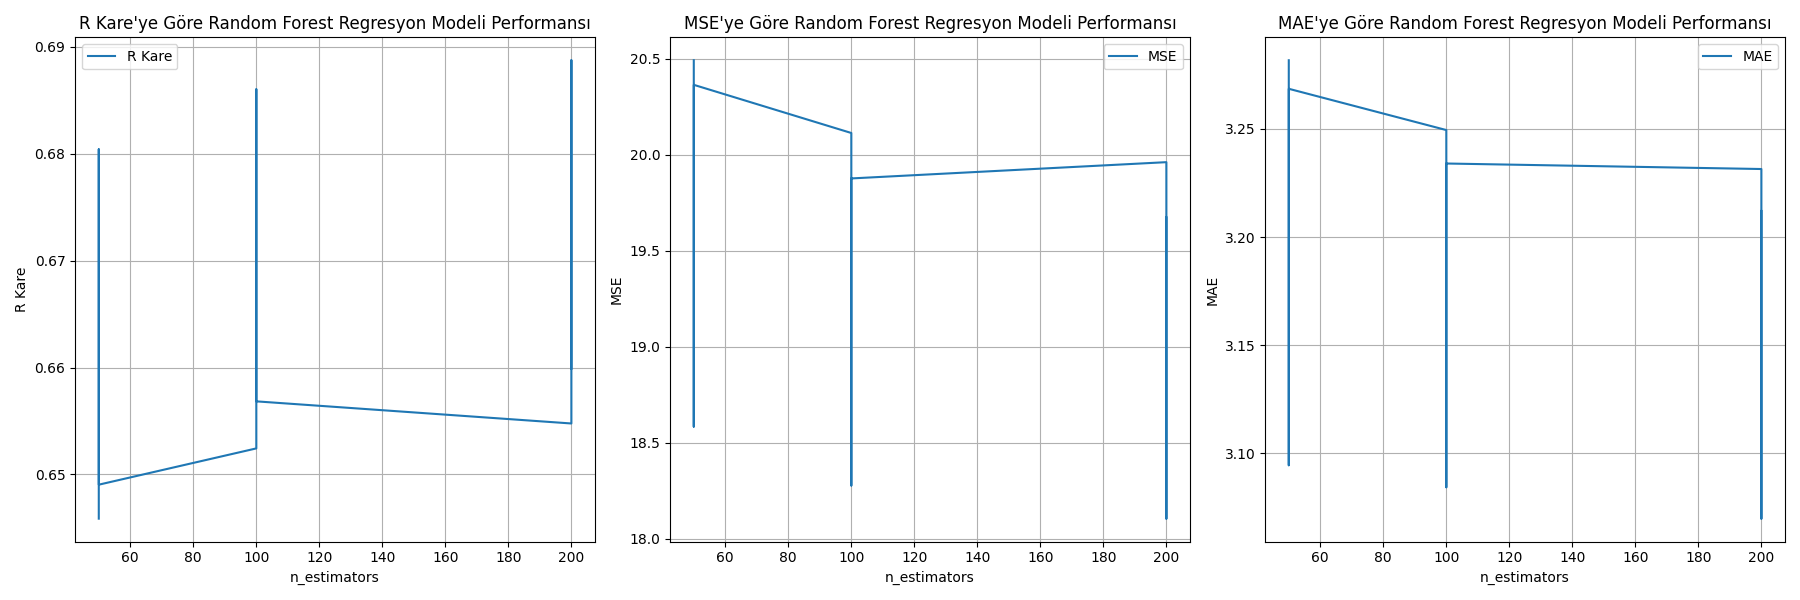
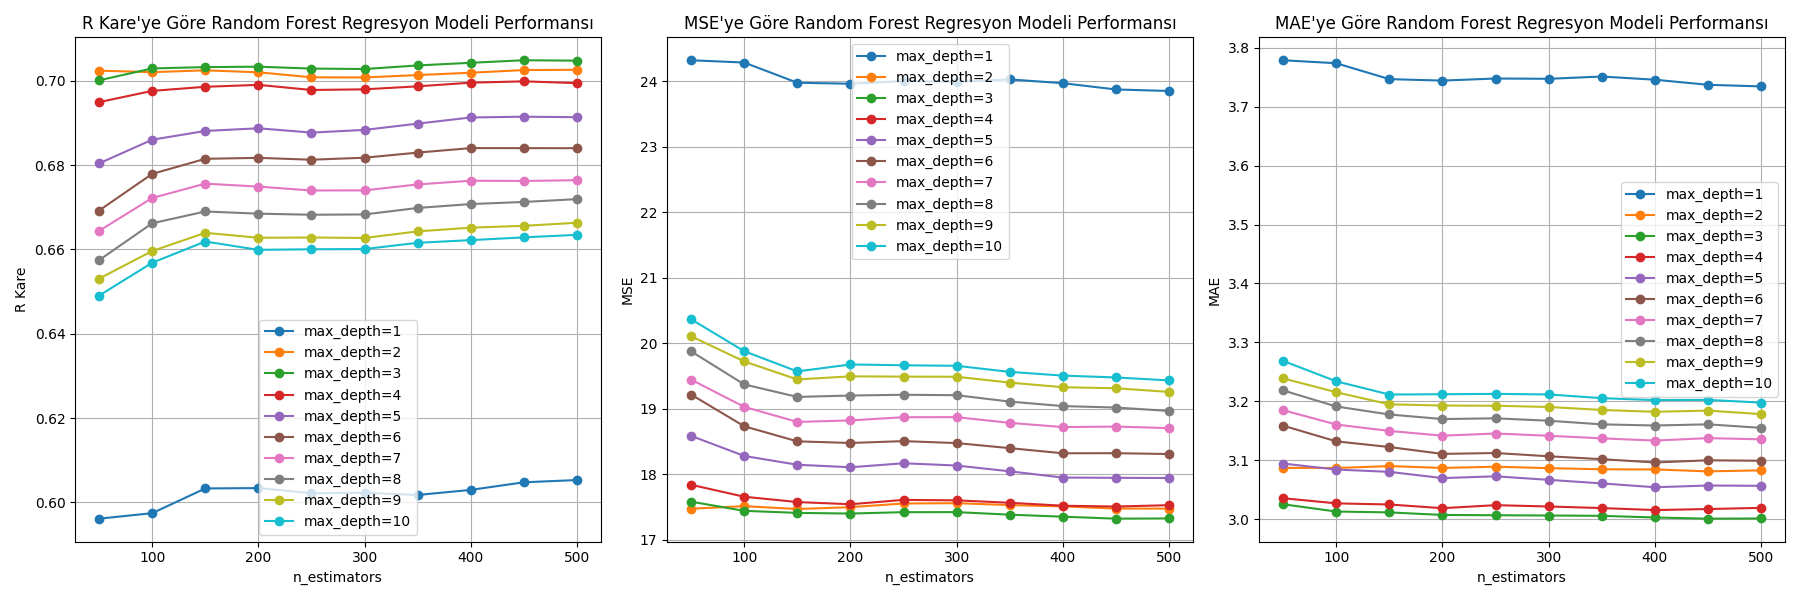
Random Forest n and depth done

diff --git a/Assignment_3/Random_Forest/random_forest.py b/Assignment_3/Random_Forest/random_forest.py
@@ -18,23 +18,22 @@ hedef = df["mpg"]
 random_state = 300 #random.randint(0, 999)
 ozellik_egitim, ozellik_test, hedef_egitim, hedef_test = train_test_split(ozellik, hedef, test_size=0.1, random_state=random_state)
 
-# n_estimators ve max_depth değerlerinin belirlenmesi
-n_estimators_candidates = [50, 100, 200]
-max_depth_candidates = [5, 10]
+# Hiperparametre adayları
+n_estimators_candidates = range(50, 501, 50)
+max_depth_candidates = range(1, 11)
 
-# Sonuçları saklamak için bir DataFrame
+# Cross-validation sonuçlarını saklamak için DataFrame
 cross_validation_sonuçlar = pd.DataFrame(columns=["n_estimators", "max_depth", "r_kare", "mse", "mae"])
 
-# Scorerlar
+# Skorlayıcılar
 mse_scorer = make_scorer(mean_squared_error, greater_is_better=False)
 mae_scorer = make_scorer(mean_absolute_error, greater_is_better=False)
 r_kare_scorer = make_scorer(r2_score, greater_is_better=True)
 
-# Cross-validation ve sonuçların kaydedilmesi
-for n_est in n_estimators_candidates:
-    for m_depth in max_depth_candidates:
-        # Model oluştur
-        random_forest_model = RandomForestRegressor(n_estimators=n_est, max_depth=m_depth, random_state=random_state)
+# Cross-validation ile sonuçların hesaplanması
+for n_estimators in n_estimators_candidates:
+    for max_depth in max_depth_candidates:
+        random_forest_model = RandomForestRegressor(n_estimators=n_estimators, max_depth=max_depth, random_state=random_state)
 
         # R Kare
         r_kare_skorları = cross_val_score(random_forest_model, ozellik_egitim, hedef_egitim, cv=5, scoring=r_kare_scorer)
@@ -50,54 +49,63 @@ for n_est in n_estimators_candidates:
 
         # Sonucu tabloya ekle
         cross_validation_sonuçlar = cross_validation_sonuçlar._append({
-            "n_estimators": n_est,
-            "max_depth": m_depth,
+            "n_estimators": n_estimators,
+            "max_depth": max_depth,
             "r_kare": r_kare,
             "mse": mse,
             "mae": mae
         }, ignore_index=True)
 
-        print("n_estimators:", n_est, "max_depth:", m_depth, "R Kare:", r_kare, "MSE:", mse, "MAE:", mae)
+        print("n_estimators:", n_estimators, "max_depth:", max_depth, "R Kare:", r_kare, "MSE:", mse, "MAE:", mae)
 
 # R kare yöntemine göre en iyi n_estimators ve max_depth'u bulma
 en_iyi_r_kare = cross_validation_sonuçlar["r_kare"].max()
-en_iyi_r_kare_n_estimators = cross_validation_sonuçlar.loc[cross_validation_sonuçlar["r_kare"] == en_iyi_r_kare].iloc[0]["n_estimators"]
-en_iyi_r_kare_max_depth = cross_validation_sonuçlar.loc[cross_validation_sonuçlar["r_kare"] == en_iyi_r_kare].iloc[0]["max_depth"]
+en_iyi_r_kare_satir = cross_validation_sonuçlar[cross_validation_sonuçlar["r_kare"] == en_iyi_r_kare].iloc[0]
+en_iyi_r_kare_n_estimators = en_iyi_r_kare_satir["n_estimators"]
+en_iyi_r_kare_max_depth = en_iyi_r_kare_satir["max_depth"]
 print("En iyi R Kare:", en_iyi_r_kare, "En iyi n_estimators:", en_iyi_r_kare_n_estimators, "En iyi max_depth:", en_iyi_r_kare_max_depth)
 
 # MSE yöntemine göre en iyi n_estimators ve max_depth'u bulma
 en_iyi_mse = cross_validation_sonuçlar["mse"].min()
-en_iyi_mse_n_estimators = cross_validation_sonuçlar.loc[cross_validation_sonuçlar["mse"] == en_iyi_mse].iloc[0]["n_estimators"]
-en_iyi_mse_max_depth = cross_validation_sonuçlar.loc[cross_validation_sonuçlar["mse"] == en_iyi_mse].iloc[0]["max_depth"]
+en_iyi_mse_satir = cross_validation_sonuçlar[cross_validation_sonuçlar["mse"] == en_iyi_mse].iloc[0]
+en_iyi_mse_n_estimators = en_iyi_mse_satir["n_estimators"]
+en_iyi_mse_max_depth = en_iyi_mse_satir["max_depth"]
 print("En iyi MSE:", en_iyi_mse, "En iyi n_estimators:", en_iyi_mse_n_estimators, "En iyi max_depth:", en_iyi_mse_max_depth)
 
 # MAE yöntemine göre en iyi n_estimators ve max_depth'u bulma
 en_iyi_mae = cross_validation_sonuçlar["mae"].min()
-en_iyi_mae_n_estimators = cross_validation_sonuçlar.loc[cross_validation_sonuçlar["mae"] == en_iyi_mae].iloc[0]["n_estimators"]
-en_iyi_mae_max_depth = cross_validation_sonuçlar.loc[cross_validation_sonuçlar["mae"] == en_iyi_mae].iloc[0]["max_depth"]
+en_iyi_mae_satir = cross_validation_sonuçlar[cross_validation_sonuçlar["mae"] == en_iyi_mae].iloc[0]
+en_iyi_mae_n_estimators = en_iyi_mae_satir["n_estimators"]
+en_iyi_mae_max_depth = en_iyi_mae_satir["max_depth"]
 print("En iyi MAE:", en_iyi_mae, "En iyi n_estimators:", en_iyi_mae_n_estimators, "En iyi max_depth:", en_iyi_mae_max_depth)
 
-# n_estimators ve max_depth değerlerinin skor grafikleri
+# Grafikler: her bir max_depth için ayrı çizgi
 fig, axes = plt.subplots(1, 3, figsize=(18, 6))
 
-# R Kare grafiği
-axes[0].plot(cross_validation_sonuçlar["n_estimators"], cross_validation_sonuçlar["r_kare"], label="R Kare")
+# R Kare grafiği (her max_depth farklı çizgi)
+for max_depth in max_depth_candidates:
+    subset = cross_validation_sonuçlar[cross_validation_sonuçlar["max_depth"] == max_depth]
+    axes[0].plot(subset["n_estimators"], subset["r_kare"], marker='o', label=f"max_depth={max_depth}")
 axes[0].set_xlabel("n_estimators")
 axes[0].set_ylabel("R Kare")
 axes[0].set_title("R Kare'ye Göre Random Forest Regresyon Modeli Performansı")
 axes[0].legend()
 axes[0].grid(True)
 
-# MSE grafiği
-axes[1].plot(cross_validation_sonuçlar["n_estimators"], cross_validation_sonuçlar["mse"], label="MSE")
+# MSE grafiği (her max_depth farklı çizgi)
+for max_depth in max_depth_candidates:
+    subset = cross_validation_sonuçlar[cross_validation_sonuçlar["max_depth"] == max_depth]
+    axes[1].plot(subset["n_estimators"], subset["mse"], marker='o', label=f"max_depth={max_depth}")
 axes[1].set_xlabel("n_estimators")
 axes[1].set_ylabel("MSE")
 axes[1].set_title("MSE'ye Göre Random Forest Regresyon Modeli Performansı")
 axes[1].legend()
 axes[1].grid(True)
 
-# MAE grafiği
-axes[2].plot(cross_validation_sonuçlar["n_estimators"], cross_validation_sonuçlar["mae"], label="MAE")
+# MAE grafiği (her max_depth farklı çizgi)
+for max_depth in max_depth_candidates:
+    subset = cross_validation_sonuçlar[cross_validation_sonuçlar["max_depth"] == max_depth]
+    axes[2].plot(subset["n_estimators"], subset["mae"], marker='o', label=f"max_depth={max_depth}")
 axes[2].set_xlabel("n_estimators")
 axes[2].set_ylabel("MAE")
 axes[2].set_title("MAE'ye Göre Random Forest Regresyon Modeli Performansı")
